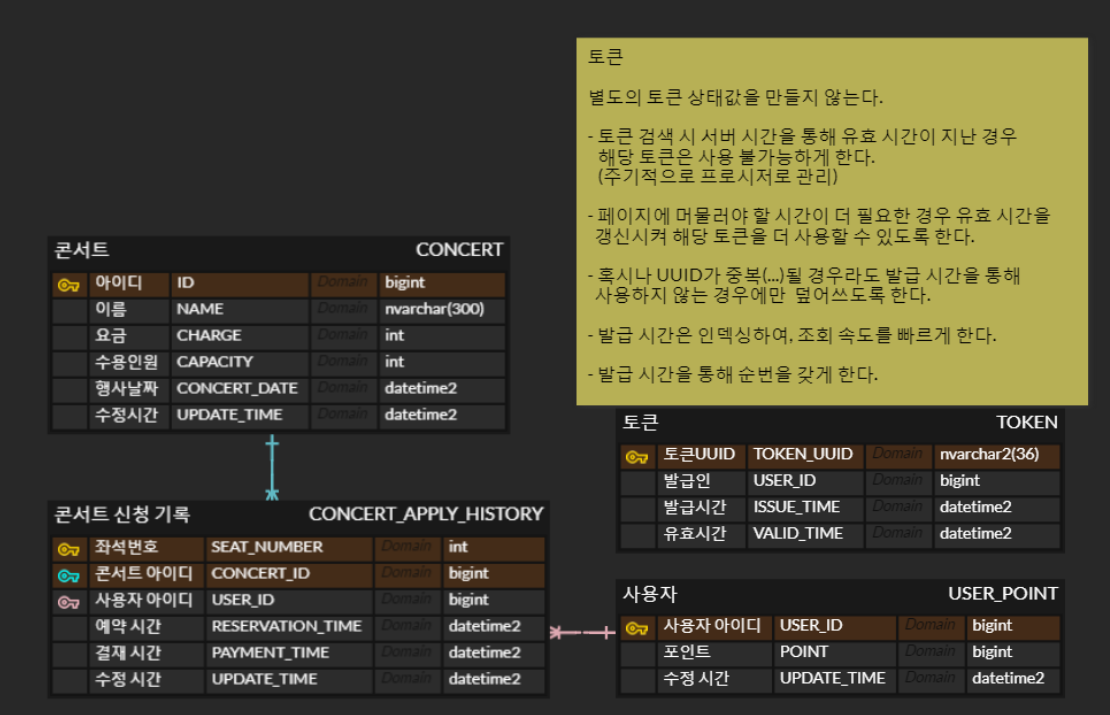
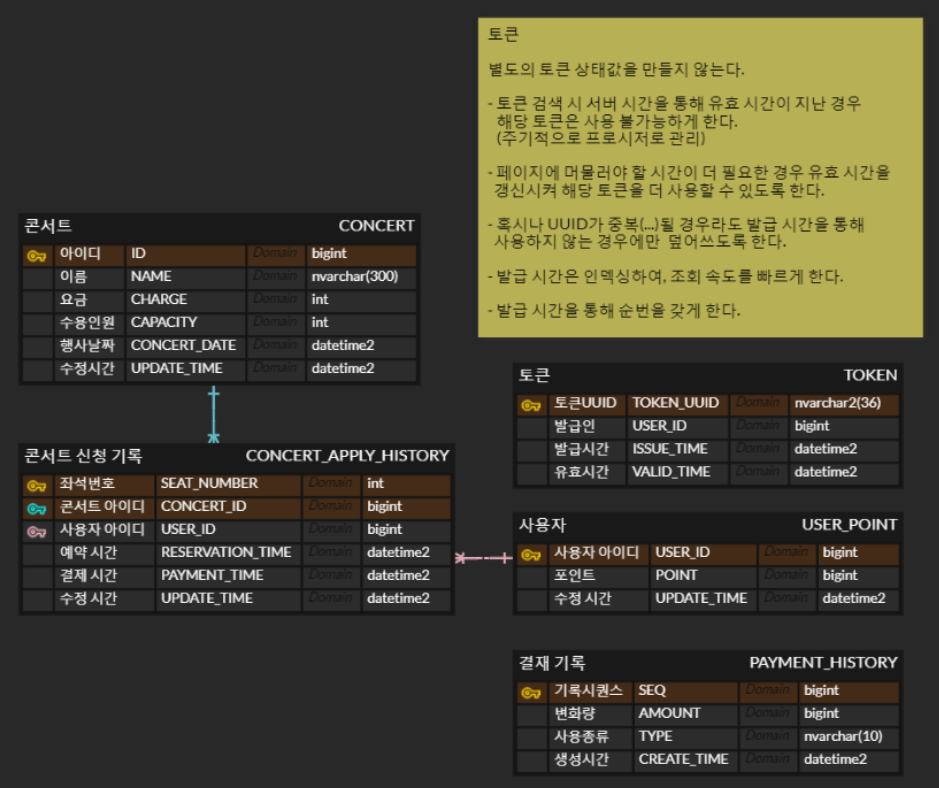
구조변경

Changed region(s): [[0.0, 0.0, 0.9883, 0.9846], [0.4941, 0.8, 0.9574, 0.9846]]

diff --git a/src/main/java/com/hhplus/task/api/concert/controller/ConcertController.java b/src/main/java/com/hhplus/task/api/concert/controller/ConcertController.java
@@ -1,0 +1,86 @@
+package com.hhplus.task.api.concert.controller;
+
+import com.hhplus.task.api.concert.dto.ConcertRequestDto;
+import com.hhplus.task.api.concert.usecase.GetConcertListUseCase;
+import com.hhplus.task.domain.concert.models.Concert;
+import org.slf4j.Logger;
+import org.slf4j.LoggerFactory;
+import org.springframework.http.HttpStatus;
+import org.springframework.http.ResponseEntity;
+import org.springframework.web.bind.annotation.*;
+
+import java.util.List;
+import java.util.Map;
+
+@RestController
+@RequestMapping("/concert")
+public class ConcertController {
+
+    private final Logger log = LoggerFactory.getLogger(getClass());
+
+    /**
+     * 콘서트 리스트 가져오기
+     * <hr/>
+     *
+     * 현재 있는 콘서트 목록을 볼 수 있다.
+     *
+     * @param isALl true:모든 콘서트 목록을 가져온다. false(기본값):현재 사용자의 토큰으로만 신청할 수 있는 콘서트만 가져온다.
+     * @return
+     */
+    @GetMapping("/")
+    public ResponseEntity<List<Concert>> getConcertList(
+            @RequestParam(value = "false", required = false) boolean isALl,
+            @RequestHeader Map<String, String> headers){
+
+//        if(headers.get("token") == null) throw new CustomRuntimeException("대기열 정보가 존재하지 않습니다.");
+//
+//        List<ConcertEntity> result = new ArrayList<>();
+//
+//        result.add(new ConcertEntity(1L, "콘서트1", 20000, 50, LocalDateTime.now(), LocalDateTime.now()));
+//        result.add(new ConcertEntity(2L, "콘서트2", 10000, 50, LocalDateTime.now(), LocalDateTime.now()));
+//        result.add(new ConcertEntity(3L, "콘서트3", 50000, 50, LocalDateTime.now(), LocalDateTime.now()));
+//        result.add(new ConcertEntity(4L, "콘서트4", 90000, 50, LocalDateTime.now(), LocalDateTime.now()));
+//        result.add(new ConcertEntity(5L, "콘서트5", 10000, 50, LocalDateTime.now(), LocalDateTime.now()));
+//
+//        // 해당 콘서트는 이미 만원인 데이터다.
+//        if(isALl){
+//            result.add(new ConcertEntity(6L, "콘서트6", 120000, 50, LocalDateTime.now(), LocalDateTime.now()));
+//            result.add(new ConcertEntity(7L, "콘서트7", 100000, 50, LocalDateTime.now(), LocalDateTime.now()));
+//        }
+//
+//        return new ResponseEntity<>(result, HttpStatus.OK);
+
+        return new ResponseEntity<>(GetConcertListUseCase.execute(), HttpStatus.OK);
+    }
+
+    /**
+     * <h1>대기열 순번 출력</h1>
+     *
+     * @return 대기열 순번
+     */
+    @GetMapping("/turn")
+    public ResponseEntity<Long> getTurnNumber(){
+        return new ResponseEntity<>(1L, HttpStatus.OK);
+    }
+
+    /**
+     * <h1>콘서트 예약</h1>
+     *
+     * @return
+     */
+    @PutMapping("")
+    public ResponseEntity<Object> reserveConcert(@RequestBody ConcertRequestDto concertRequestDto){
+        return new ResponseEntity<>(null, HttpStatus.NO_CONTENT);
+    }
+
+    /**
+     * <h1>콘서트 결제</h1>
+     *
+     * @return
+     */
+    @PostMapping("")
+    public ResponseEntity<Object> payConcert(@RequestBody ConcertRequestDto concertRequestDto){
+        return new ResponseEntity<>(null, HttpStatus.NO_CONTENT);
+    }
+
+}

diff --git a/src/main/java/com/hhplus/task/domain/concert/models/Concert.java b/src/main/java/com/hhplus/task/domain/concert/models/Concert.java
@@ -1,0 +1,39 @@
+package com.hhplus.task.domain.concert.models;
+
+import lombok.*;
+
+import java.time.LocalDateTime;
+
+@Getter
+@NoArgsConstructor
+@EqualsAndHashCode
+@ToString
+public class Concert {
+    private Long id;
+    private String name;
+    private Integer charge;
+    private Integer capacity;
+    private LocalDateTime concertDate;
+    private LocalDateTime updateTime;
+
+    @Builder
+    public Concert(Long id, String name, Integer charge, Integer capacity, LocalDateTime concertDate, LocalDateTime updateTime) {
+        this.id = id;
+        this.name = name;
+        this.charge = charge;
+        this.capacity = capacity;
+        this.concertDate = concertDate;
+        this.updateTime = updateTime;
+    }
+
+    public ConcertEntity toEntity(){
+        return ConcertEntity.builder()
+                .id(this.id)
+                .name(this.name)
+                .charge(this.charge)
+                .capacity(this.capacity)
+                .concertDate(this.concertDate)
+                .updateTime(this.updateTime)
+                .build();
+    }
+}

diff --git a/src/main/java/com/hhplus/task/domain/point/models/PointHistory.java b/src/main/java/com/hhplus/task/domain/point/models/PointHistory.java
@@ -1,0 +1,39 @@
+package com.hhplus.task.domain.point.models;
+
+import jakarta.persistence.Entity;
+import jakarta.persistence.EntityListeners;
+import jakarta.persistence.Id;
+import jakarta.persistence.Table;
+import lombok.*;
+import org.springframework.data.annotation.LastModifiedDate;
+import org.springframework.data.jpa.domain.support.AuditingEntityListener;
+
+import java.time.LocalDateTime;
+
+@Entity
+@Table(name = "POINT_HISTORY")
+@Getter
+@NoArgsConstructor
+@EqualsAndHashCode
+@ToString
+@EntityListeners(AuditingEntityListener.class)
+public class PointHistory {
+
+    @Id
+    private Long seq;
+
+    private Long amount;
+
+    private PointStatus type;
+
+    @LastModifiedDate
+    private LocalDateTime createTime;
+
+    @Builder
+    public PointHistory(Long seq, Long amount, PointStatus type, LocalDateTime createTime) {
+        this.seq = seq;
+        this.amount = amount;
+        this.type = type;
+        this.createTime = createTime;
+    }
+}

diff --git a/src/main/java/com/hhplus/task/domain/concert/infrastructure/ConcertCoreStoreRepository.java b/src/main/java/com/hhplus/task/domain/concert/infrastructure/ConcertCoreStoreRepository.java
@@ -1,0 +1,21 @@
+package com.hhplus.task.domain.concert.infrastructure;
+
+import com.hhplus.task.domain.concert.models.ConcertEntity;
+import com.hhplus.task.domain.concert.repositories.ConcertReaderRepository;
+import lombok.RequiredArgsConstructor;
+import org.springframework.stereotype.Repository;
+
+import java.util.List;
+
+
+@RequiredArgsConstructor
+@Repository
+public class ConcertCoreStoreRepository implements ConcertReaderRepository {
+
+    private ConcertJpaRepository concertJpaRepository;
+
+    @Override
+    public List<ConcertEntity> findAll() {
+        return concertJpaRepository.findAll();
+    }
+}

diff --git a/src/main/java/com/hhplus/task/handler/CustomExceptionHandler.java b/src/main/java/com/hhplus/task/handler/CustomExceptionHandler.java
@@ -9,6 +9,12 @@ import org.springframework.web.bind.annotation.ExceptionHandler;
 @ControllerAdvice
 public class CustomExceptionHandler {
 
+    /**
+     * 에러 메시지를 반환한다.
+     *
+     * @param e
+     * @return
+     */
     @ExceptionHandler(CustomRuntimeException.class)
     public ResponseEntity<String> customRuntimeExceptionHandle(CustomRuntimeException e){
         return new ResponseEntity<>(e.getMessage(), HttpStatus.BAD_REQUEST);

diff --git a/src/main/java/com/hhplus/task/exception/CustomAuthenticationException.java b/src/main/java/com/hhplus/task/exception/CustomAuthenticationException.java
@@ -1,0 +1,16 @@
+package com.hhplus.task.exception;
+
+import javax.naming.AuthenticationException;
+
+public class CustomAuthenticationException extends AuthenticationException {
+
+    private String message = "";
+    public CustomAuthenticationException(String message){
+        this.message = message;
+    }
+
+    @Override
+    public String getMessage() {
+        return this.message;
+    }
+}

diff --git a/src/main/java/com/hhplus/task/api/concert/usecase/GetConcertListUseCase.java b/src/main/java/com/hhplus/task/api/concert/usecase/GetConcertListUseCase.java
@@ -1,0 +1,16 @@
+package com.hhplus.task.api.concert.usecase;
+
+import com.hhplus.task.domain.concert.models.Concert;
+
+import java.util.ArrayList;
+import java.util.List;
+
+public class GetConcertListUseCase {
+
+    public GetConcertListUseCase() {
+    }
+
+    public static List<Concert> execute(){
+        return new ArrayList<>();
+    }
+}

diff --git a/src/main/java/com/hhplus/task/domain/concert/infrastructure/ConcertJpaRepository.java b/src/main/java/com/hhplus/task/domain/concert/infrastructure/ConcertJpaRepository.java
@@ -1,0 +1,9 @@
+package com.hhplus.task.domain.concert.infrastructure;
+
+import com.hhplus.task.domain.concert.models.ConcertEntity;
+import org.springframework.data.jpa.repository.JpaRepository;
+import org.springframework.stereotype.Repository;
+
+@Repository
+public interface ConcertJpaRepository extends JpaRepository<ConcertEntity, Long> {
+}

diff --git a/src/main/java/com/hhplus/task/api/point/controller/PointController.java b/src/main/java/com/hhplus/task/api/point/controller/PointController.java
@@ -1,6 +1,6 @@
-package com.hhplus.task.controller;
+package com.hhplus.task.api.point.controller;
 
-import com.hhplus.task.dto.PointChangeDto;
+import com.hhplus.task.api.point.dto.PointChangeDto;
 import com.hhplus.task.exception.CustomRuntimeException;
 import lombok.RequiredArgsConstructor;
 import org.slf4j.Logger;

diff --git a/src/main/java/com/hhplus/task/domain/concert/component/ConcertReader.java b/src/main/java/com/hhplus/task/domain/concert/component/ConcertReader.java
@@ -1,0 +1,12 @@
+package com.hhplus.task.domain.concert.component;
+
+import com.hhplus.task.domain.concert.repositories.ConcertReaderRepository;
+import org.springframework.stereotype.Component;
+
+@Component
+public class ConcertReader {
+
+    private ConcertReaderRepository readerRepository;
+
+
+}

diff --git a/src/main/java/com/hhplus/task/api/point/dto/PointChangeDto.java b/src/main/java/com/hhplus/task/api/point/dto/PointChangeDto.java
@@ -1,6 +1,6 @@
-package com.hhplus.task.dto;
+package com.hhplus.task.api.point.dto;
 
-import com.hhplus.task.entity.PointStatus;
+import com.hhplus.task.domain.point.models.PointStatus;
 import lombok.Getter;
 import lombok.NoArgsConstructor;
 import lombok.ToString;

diff --git a/src/main/java/com/hhplus/task/domain/concert/repositories/ConcertReaderRepository.java b/src/main/java/com/hhplus/task/domain/concert/repositories/ConcertReaderRepository.java
@@ -1,0 +1,10 @@
+package com.hhplus.task.domain.concert.repositories;
+
+import com.hhplus.task.domain.concert.models.ConcertEntity;
+
+import java.util.List;
+
+public interface ConcertReaderRepository {
+
+    List<ConcertEntity> findAll();
+}
